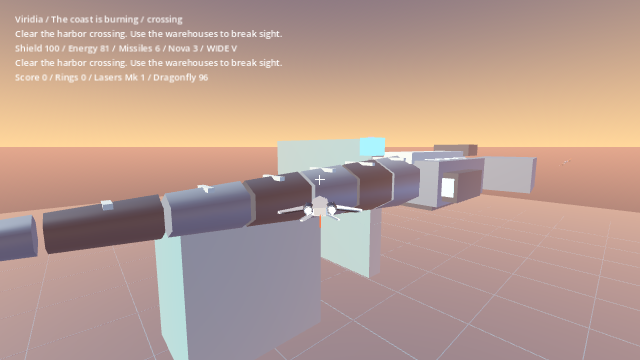
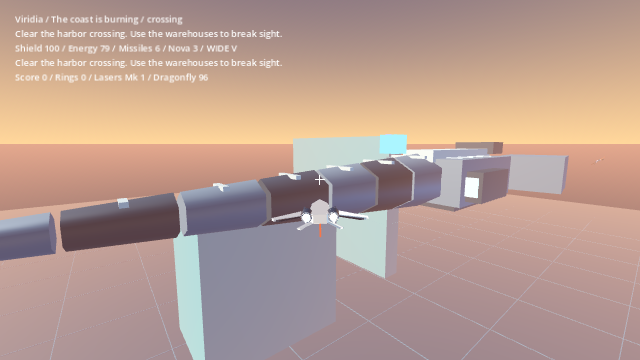
Validate nested checkpoint state before restoring live actors
Reject invalid pending arrivals, tank state, motion fields, carrier/settings omissions and actor-ID frontiers atomically. Show the safe briefing restart when a checkpoint cannot be restored.

Preserve all valid journey checkpoints. Add seven checks, bringing native verification to 771 checks; the exported browser passes fourteen checks.

diff --git a/tools/record_verification.py b/tools/record_verification.py
@@ -18,8 +18,10 @@ def main():
         raise RuntimeError("Native validation did not complete successfully")
     for path, marker in [("build/operations-final.log", "OPERATIONS_SMOKE"), ("build/journey-final.log", "OPERATION_JOURNEY_SMOKE"), ("build/music-final.log", "MUSIC_SMOKE")]:
         focused = (ROOT / path).read_text()
-        if "SCRIPT ERROR:" in focused or not re.search(rf"^{marker}: {results[marker]['checks']} (?:checks|assertions); 0 failures", focused, re.M):
+        match = re.search(rf"^{marker}: (\d+) (?:checks|assertions); 0 failures", focused, re.M)
+        if "SCRIPT ERROR:" in focused or not match or int(match[1]) < results[marker]["checks"]:
             raise RuntimeError("Focused final validation failed: " + path)
+        results[marker]["checks"] = int(match[1])
     browser = json.loads((ROOT / "build/web-smoke/results.json").read_text())
     if not browser["passed"] or browser["errors"]:
         raise RuntimeError("Exported browser validation failed")

diff --git a/docs/VERIFICATION.md b/docs/VERIFICATION.md
@@ -4,7 +4,7 @@
 
 The normal entry now uses the ten-operation campaign. Jonathan’s instruction removes human-check prerequisites from programming; no human results are invented. The [implementation and plan mapping](EXPANDED_CAMPAIGN.md) records the actual contracts and blockout scope.
 
-Official Godot **4.7.2.stable.official.ed1daf0bf** passed **764 checks across 12 native suites**: operations 113, physical delivery routes 11, arranged sequential journey 131, music 156, compact campaign 74, compact squadron 35, combat revision 38, compact expansion 50, shared duel 38, orbit 40, orbit exploration 70 and compact tank support 8. The compact suites retain preserved-content regressions; they do not certify new flight-controller gameplay. The journey fixture arranges combat/arrival events and verifies every operation boundary, cold checkpoint/result reconstruction and idempotent settlement. The route fixture flies the actual controller through authored collision geometry. Walker checks measure planted feet during translation/turning at 20/60/120 FPS; pickups cover swept crossing, one award and a near miss.
+Official Godot **4.7.2.stable.official.ed1daf0bf** passed **771 checks across 12 native suites**: operations 120, physical delivery routes 11, arranged sequential journey 131, music 156, compact campaign 74, compact squadron 35, combat revision 38, compact expansion 50, shared duel 38, orbit 40, orbit exploration 70 and compact tank support 8. The compact suites retain preserved-content regressions; they do not certify new flight-controller gameplay. The journey fixture arranges combat/arrival events and verifies every operation boundary, cold checkpoint/result reconstruction and idempotent settlement. The route fixture flies the actual controller through authored collision geometry. Six additional malformed-checkpoint cases cover pending arrivals, tank data, extra motion fields, carrier/settings omissions and an invalid actor-ID frontier; rejection preserves the live state. The real briefing also explains an invalid checkpoint’s safe restart. Walker checks measure planted feet during translation/turning at 20/60/120 FPS; pickups cover swept crossing, one award and a near miss.
 
 The **16 distinct scores and 16 decoded OGG loops** pass score, duration, finite-sample, peak, silence, seam and hash checks. The original twelve score/audio hashes are unchanged. Native audio includes every stream’s real decoder wrap plus ten normal operation launches and their actual boss-state transitions. These results do not claim critical listening.
 
@@ -16,7 +16,7 @@ Actual Mesa/llvmpipe engine captures cover all ten operation blockouts and 150% 
 
 The actual pinned PBR flight lab passed its existing **366 assertions**. The new recovery-pose adapter passed **90 paired checks**, plus an 80-frame actual-engine capture with unchanged tactical state on every frame. [Contract](evidence/pbr-recovery-contract.json) and [four-second pose clip](previews/pbr-recovery-pose.gif) identify its scope. No PBR merge or campaign/tactical change was made.
 
-Rapid native shutdown can report queued audio playback resources; focused final audio/operation tests allow the audio thread to release and complete cleanly. Existing rapid-teardown warnings in preserved suites remain recorded. No script or parse failure is accepted by packaging. Physical controllers, human feel/balance, listening, and the user’s Windows hardware remain unmeasured validation. No site publication was performed; Pages now requires an explicit manual workflow option.
+Rapid native shutdown can report queued audio playback resources; focused audio/operation tests allow extra release time, with intermittent cleanup warnings still recorded. Existing rapid-teardown warnings in preserved suites remain recorded. No script or parse failure is accepted by packaging. Physical controllers, human feel/balance, listening, and the user’s Windows hardware remain unmeasured validation. No site publication was performed; Pages now requires an explicit manual workflow option.
 
 
 ## Documentation and portable source audit, October 30, 2026
